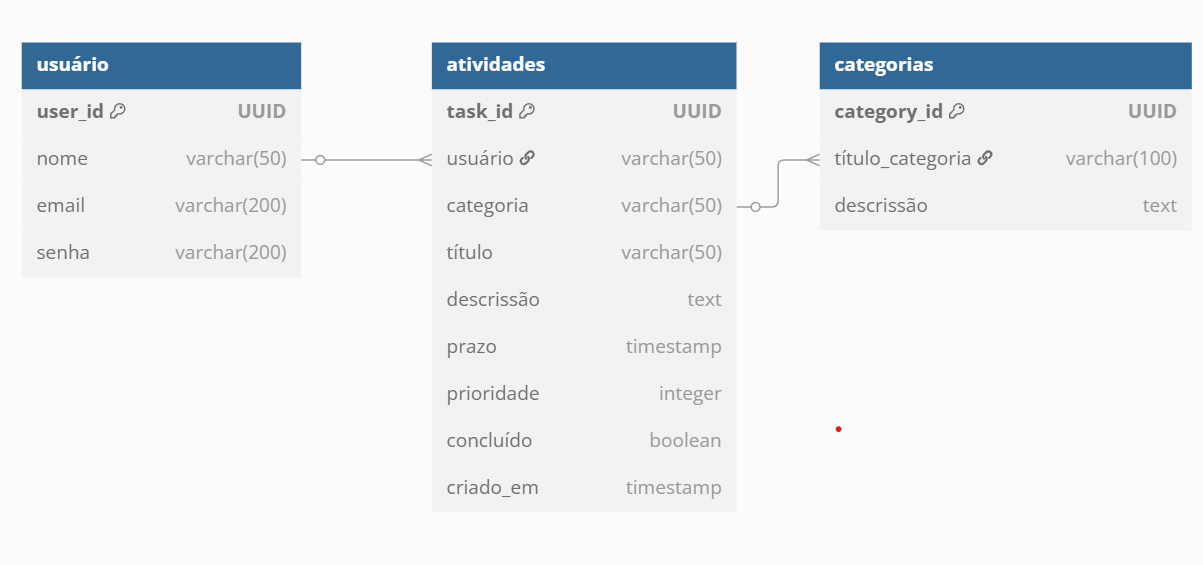
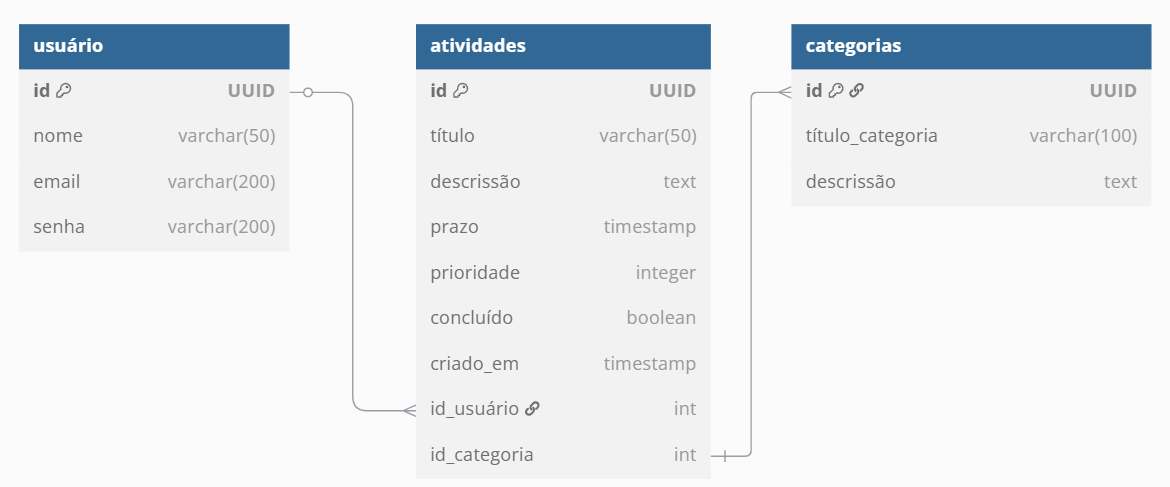
docs: wad

diff --git a/documentos/wad.md b/documentos/wad.md
@@ -1,0 +1,205 @@
+# Web Application Document - Projeto Individual - Módulo 2 - Inteli
+
+## Simples
+
+#### Leunam Sousa de Jesus
+
+## Sumário
+
+1. [Introdução](#c1)  
+2. [Visão Geral da Aplicação Web](#c2)  
+3. [Projeto Técnico da Aplicação Web](#c3)  
+4. [Desenvolvimento da Aplicação Web](#c4)  
+5. [Referências](#c5)  
+
+<br>
+
+## <a name="c1"></a>1. Introdução (Semana 01)
+
+Esse projeto tem como objetivo o desenvolvimento de uma **aplicação web para gerenciamento de atividades**.
+
+---
+
+## <a name="c2"></a>2. Visão Geral da Aplicação Web
+
+### 2.1. Personas
+
+![Image](/assets/[nome].png)
+![Image](/assets/[nome].png)
+
+### 2.2. User Stories
+
+| User Stories | Requisitos | Critérios de Aceite |
+|-|-|-|
+| US01 | **Como** ..., **quero** ..., **para que** ... | - Deve ser possível ... <br> - ...<br>- ... |
+| US02 | **Como** ..., **quero** ..., **para que** ... | - Deve ser possível ...<br> -...<br>- ... |
+| US03 | **Como** ..., **quero** ..., **para que** ... | - Deve ser possível...<br> - ...<br>- ... |
+
+## Análise INVEST da User Story US01
+
+**User Story analisada:**  
+*US01 |  Como ..., quero ..., para que...*
+
+### INVEST:
+
+- **I – Independente:**  
+  ...
+
+- **N – Negociável:**  
+    ...
+
+- **V – Valiosa:**  
+  ...
+
+- **E – Estimável:**  
+  ...
+
+- **S – Pequena:**  
+  ...
+
+- **T – Testável:**  
+  ...
+
+---
+
+## <a name="c3"></a>3. Projeto da Aplicação Web
+
+### 3.1. Modelagem do banco de dados
+
+1. Introdução
+
+A plataforma foi desenvolvida com o objetivo de gerenciar atividades das agendas de seus usuários, desde a organização ao acompanhamento do progresso desses compromissos.
+
+2. Diagrama Lógico do Banco de Dados
+
+![Diagrama Lógico do Banco de Dados](../assets/modelo-banco.png)
+
+3. Tabelas e Atributos
+
+**Usuário**
+- `id`: Identificador único do usuário (PK)
+- `nome`: Nome do usuário 
+- `email`: email do usuário (único)
+
+**Atividades**
+- `id`: Identificador único (PK)
+- `título`: nome da atividade
+- `descrissão`: detalhamento sobre a atividade
+- `prazo`: data em que deve ser concluída
+- `prioridade`: nível de importância em escala numérico
+- `concluído`: Icheck-box que indica quando foi concluída
+- `criado_em`: data de criação
+- `usuario_id`: FK para `usuarios`
+- `categoria_id`: FK para `categoria`  
+
+**categorias**
+- `id`: Identificador único do usuário (PK)
+- `título_categoria`: nome da categoria
+- `descrissão`: detalhamento para entender o que ela inclui.
+
+4. Cardinalidade das Relações
+ 
+- **Usuário → Atividades**: Um usuário pode estar associada a várias atividades **(1:N)**. 
+- **Atividades → Categoria**: Uma atividades só está relacionada a uma categoria 1:1  
+
+5. Modelo Físico – Schema do Banco de Dados
+
+Abaixo está todas as instruções SQL utilizadas para a criação do banco de dados:
+
+📄 **Arquivo .SQL com o schema:**  
+```
+CREATE TABLE IF NOT EXISTS usuário (
+  id SERIAL PRIMARY KEY,
+  nome VARCHAR(50) NOT NULL,
+  email VARCHAR(200),
+  senha VARCHAR(200)
+);
+
+CREATE TABLE IF NOT EXISTS categorias (
+  id SERIAL PRIMARY KEY,
+  título_categoria VARCHAR(100) NOT NULL,
+  descrissão TEXT
+);
+
+CREATE TABLE IF NOT EXISTS atividades (
+  id SERIAL PRIMARY KEY,
+  título VARCHAR(50) NOT NULL,
+  descrissão TEXT,
+  prazo TIMESTAMP,
+  prioridade INTEGER,
+  concluido BOOLEAN,
+  criado_em TIMESTAMP,
+  id_usuário INT,
+  id_categoria INT,
+  FOREIGN KEY (id_usuário) REFERENCES usuário(id),
+  FOREIGN KEY (id_categoria) REFERENCES categorias(id)
+);
+
+
+```
+
+### ✅ Instruções básicas para execução:
+
+1. Abra o seu SGBD (ex: MySQL Workbench, pgAdmin, DBeaver).
+2. Crie um banco de dados novo.
+3. Execute o conteúdo do arquivo `.sql` para criar todas as tabelas com as relações corretamente definidas.
+
+---
+
+### 3.1.1 BD e Models (Semana 5)
+*Descreva aqui os Models implementados no sistema web*
+
+### 3.2. Arquitetura (Semana 5)
+
+*Posicione aqui o diagrama de arquitetura da sua solução de aplicação web. Atualize sempre que necessário.*
+
+**Instruções para criação do diagrama de arquitetura**  
+- **Model**: A camada que lida com a lógica de negócios e interage com o banco de dados.
+- **View**: A camada responsável pela interface de usuário.
+- **Controller**: A camada que recebe as requisições, processa as ações e atualiza o modelo e a visualização.
+  
+*Adicione as setas e explicações sobre como os dados fluem entre o Model, Controller e View.*
+
+### 3.3. Wireframes (Semana 03)
+
+*Posicione aqui as imagens do wireframe construído para sua solução e, opcionalmente, o link para acesso (mantenha o link sempre público para visualização).*
+
+### 3.4. Guia de estilos (Semana 05)
+
+*Descreva aqui orientações gerais para o leitor sobre como utilizar os componentes do guia de estilos de sua solução.*
+
+
+### 3.5. Protótipo de alta fidelidade (Semana 05)
+
+*Posicione aqui algumas imagens demonstrativas de seu protótipo de alta fidelidade e o link para acesso ao protótipo completo (mantenha o link sempre público para visualização).*
+
+### 3.6. WebAPI e endpoints (Semana 05)
+
+*Utilize um link para outra página de documentação contendo a descrição completa de cada endpoint. Ou descreva aqui cada endpoint criado para seu sistema.*  
+
+### 3.7 Interface e Navegação (Semana 07)
+
+*Descreva e ilustre aqui o desenvolvimento do frontend do sistema web, explicando brevemente o que foi entregue em termos de código e sistema. Utilize prints de tela para ilustrar.*
+
+---
+
+## <a name="c4"></a>4. Desenvolvimento da Aplicação Web (Semana 8)
+
+### 4.1 Demonstração do Sistema Web (Semana 8)
+
+*VIDEO: Insira o link do vídeo demonstrativo nesta seção*
+*Descreva e ilustre aqui o desenvolvimento do sistema web completo, explicando brevemente o que foi entregue em termos de código e sistema. Utilize prints de tela para ilustrar.*
+
+### 4.2 Conclusões e Trabalhos Futuros (Semana 8)
+
+*Indique pontos fortes e pontos a melhorar de maneira geral.*
+*Relacione também quaisquer outras ideias que você tenha para melhorias futuras.*
+
+
+
+## <a name="c5"></a>5. Referências
+
+_Incluir as principais referências de seu projeto, para que seu parceiro possa consultar caso ele se interessar em aprofundar. Um exemplo de referência de livro e de site:_<br>
+
+---
+---
